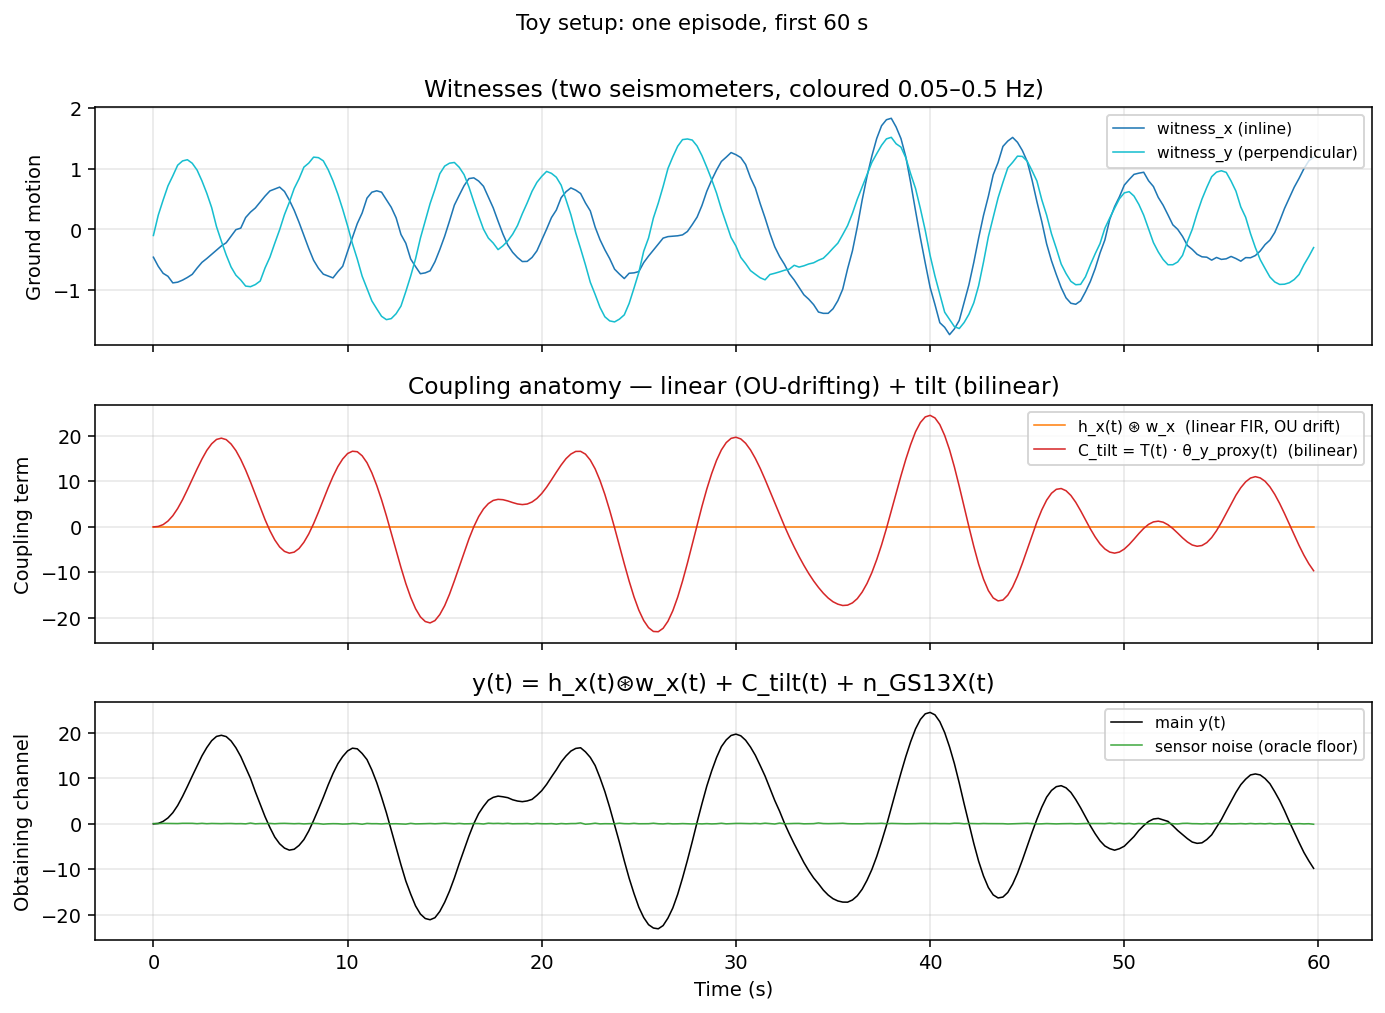
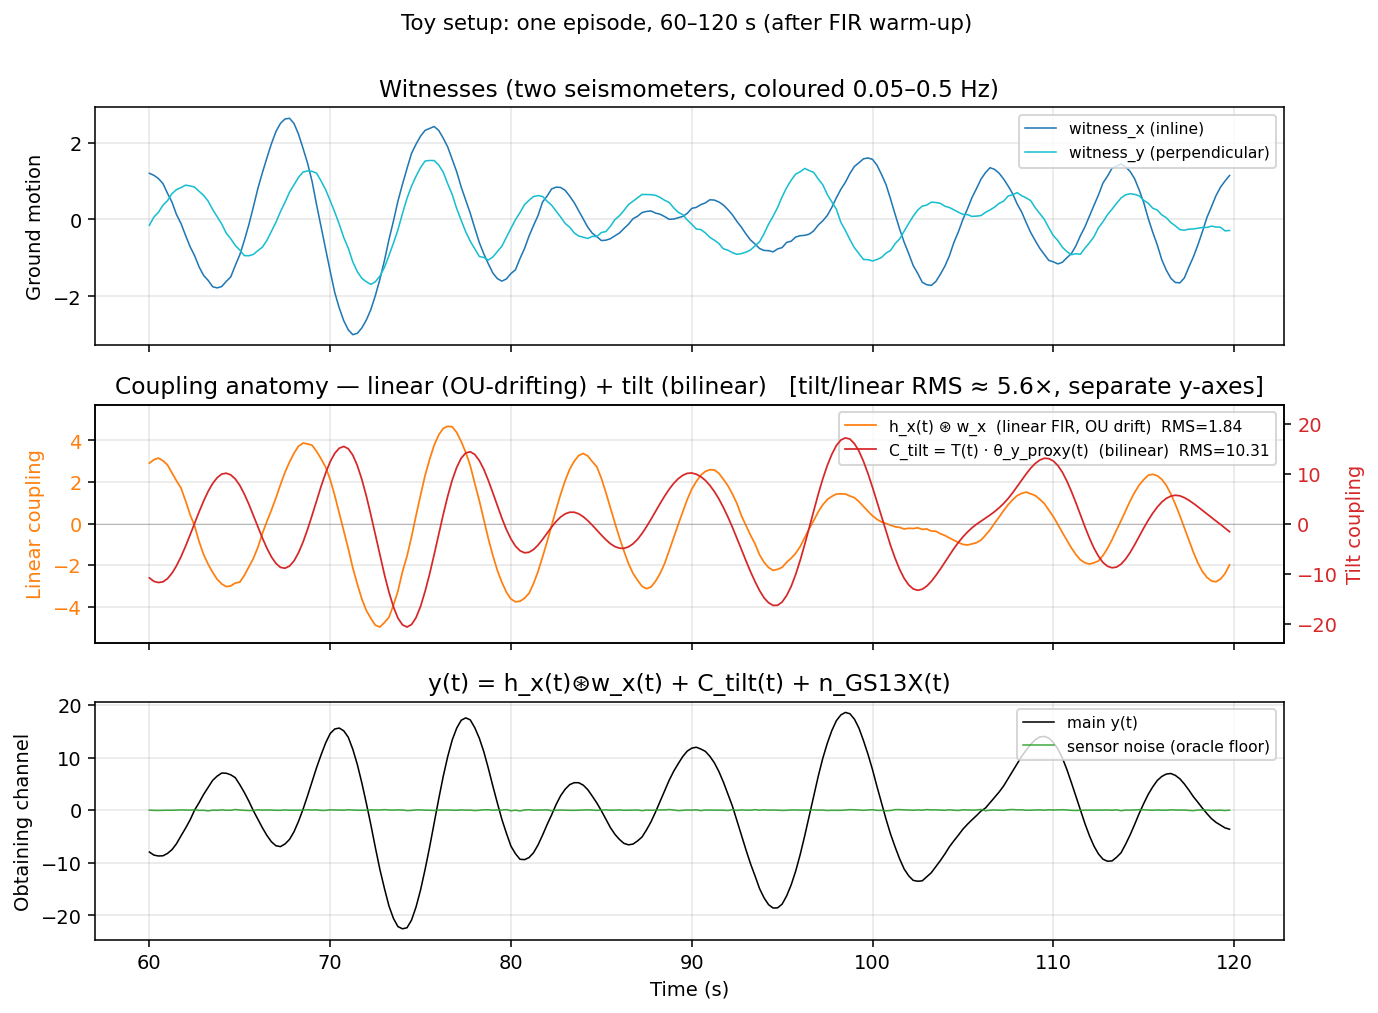
Fix time-domain plot: twin y-axes for linear vs tilt coupling
Two issues with the previous version of plot_timedomain:

  1. The first-60 s window coincides with the FIR warm-up (filter_length
     = 240 samples = 60 s @ 4 Hz), so the linear coupling trace was
     identically zero there.  Shift the window to 60-120 s so the FIR is
     fully populated.
  2. Even after warm-up, plotting linear (RMS ~1.8) and tilt (RMS ~10.3)
     on the same y-axis visually buries the linear term under the tilt
     scale.  Give each term its own twin y-axis coloured to match, and
     annotate the RMS ratio in the panel title.

The orange/linear and red/tilt traces are now both clearly visible and
can be read against their own symmetric ±(1.15·peak) scales.

https://claude.ai/code/session_01JziWxiJ7rtnjMxUT9iLEQN

diff --git a/scripts/plot_toy_setup.py b/scripts/plot_toy_setup.py
@@ -50,7 +50,9 @@ def plot_timedomain():
     d = sim.generate_episode(duration=300.0)
 
     t = d["time"]
-    mask = t < 60.0  # first 60 s
+    # The FIR coupling needs cfg.filter_length samples (60 s @ 4 Hz) to warm
+    # up, so plot the second 60 s window instead of the first.
+    mask = (t >= 60.0) & (t < 120.0)
 
     fig, axes = plt.subplots(3, 1, figsize=(10, 7.2), sharex=True)
 
@@ -64,14 +66,39 @@ def plot_timedomain():
     axes[0].grid(alpha=0.3)
 
     linear = d["coupling"] - d["coupling_tilt"]
-    axes[1].plot(t[mask], linear[mask], lw=0.8, color="tab:orange",
-                 label="h_x(t) ⊛ w_x  (linear FIR, OU drift)")
-    axes[1].plot(t[mask], d["coupling_tilt"][mask], lw=0.8, color="tab:red",
-                 label="C_tilt = T(t) · θ_y_proxy(t)  (bilinear)")
-    axes[1].set_ylabel("Coupling term")
-    axes[1].set_title("Coupling anatomy — linear (OU-drifting) + tilt (bilinear)")
-    axes[1].legend(loc="upper right", fontsize=8)
-    axes[1].grid(alpha=0.3)
+    lin_rms = float(np.sqrt(np.mean(linear**2)))
+    tilt_rms = float(np.sqrt(np.mean(d["coupling_tilt"]**2)))
+
+    # Twin y-axes so the linear term (RMS ~1.8) is not visually crushed by the
+    # tilt term (RMS ~10) — both terms share the same time base but get their
+    # own amplitude scale, coloured to match their trace.
+    ax_lin = axes[1]
+    ax_tilt = ax_lin.twinx()
+
+    l1, = ax_lin.plot(t[mask], linear[mask], lw=0.9, color="tab:orange",
+                      label=f"h_x(t) ⊛ w_x  (linear FIR, OU drift)  RMS={lin_rms:.2f}")
+    l2, = ax_tilt.plot(t[mask], d["coupling_tilt"][mask], lw=0.9, color="tab:red",
+                       label=f"C_tilt = T(t) · θ_y_proxy(t)  (bilinear)  RMS={tilt_rms:.2f}")
+
+    # Symmetric limits sized to each term's own peak excursion (with 15 % pad)
+    lin_lim = 1.15 * np.max(np.abs(linear[mask]))
+    tilt_lim = 1.15 * np.max(np.abs(d["coupling_tilt"][mask]))
+    ax_lin.set_ylim(-lin_lim, lin_lim)
+    ax_tilt.set_ylim(-tilt_lim, tilt_lim)
+
+    ax_lin.set_ylabel("Linear coupling", color="tab:orange")
+    ax_tilt.set_ylabel("Tilt coupling", color="tab:red")
+    ax_lin.tick_params(axis="y", labelcolor="tab:orange")
+    ax_tilt.tick_params(axis="y", labelcolor="tab:red")
+    ax_lin.axhline(0, color="grey", lw=0.5, alpha=0.5)
+
+    ax_lin.set_title(
+        f"Coupling anatomy — linear (OU-drifting) + tilt (bilinear)   "
+        f"[tilt/linear RMS ≈ {tilt_rms/lin_rms:.1f}×, separate y-axes]"
+    )
+    ax_lin.legend([l1, l2], [l1.get_label(), l2.get_label()],
+                  loc="upper right", fontsize=8)
+    ax_lin.grid(alpha=0.3)
 
     axes[2].plot(t[mask], d["main"][mask], lw=0.8, color="black",
                  label="main y(t)")
@@ -83,7 +110,8 @@ def plot_timedomain():
     axes[2].legend(loc="upper right", fontsize=8)
     axes[2].grid(alpha=0.3)
 
-    fig.suptitle("Toy setup: one episode, first 60 s", y=1.00, fontsize=11)
+    fig.suptitle("Toy setup: one episode, 60–120 s (after FIR warm-up)",
+                 y=1.00, fontsize=11)
     fig.tight_layout()
     _save(fig, "toy_setup_timedomain.png")
 
